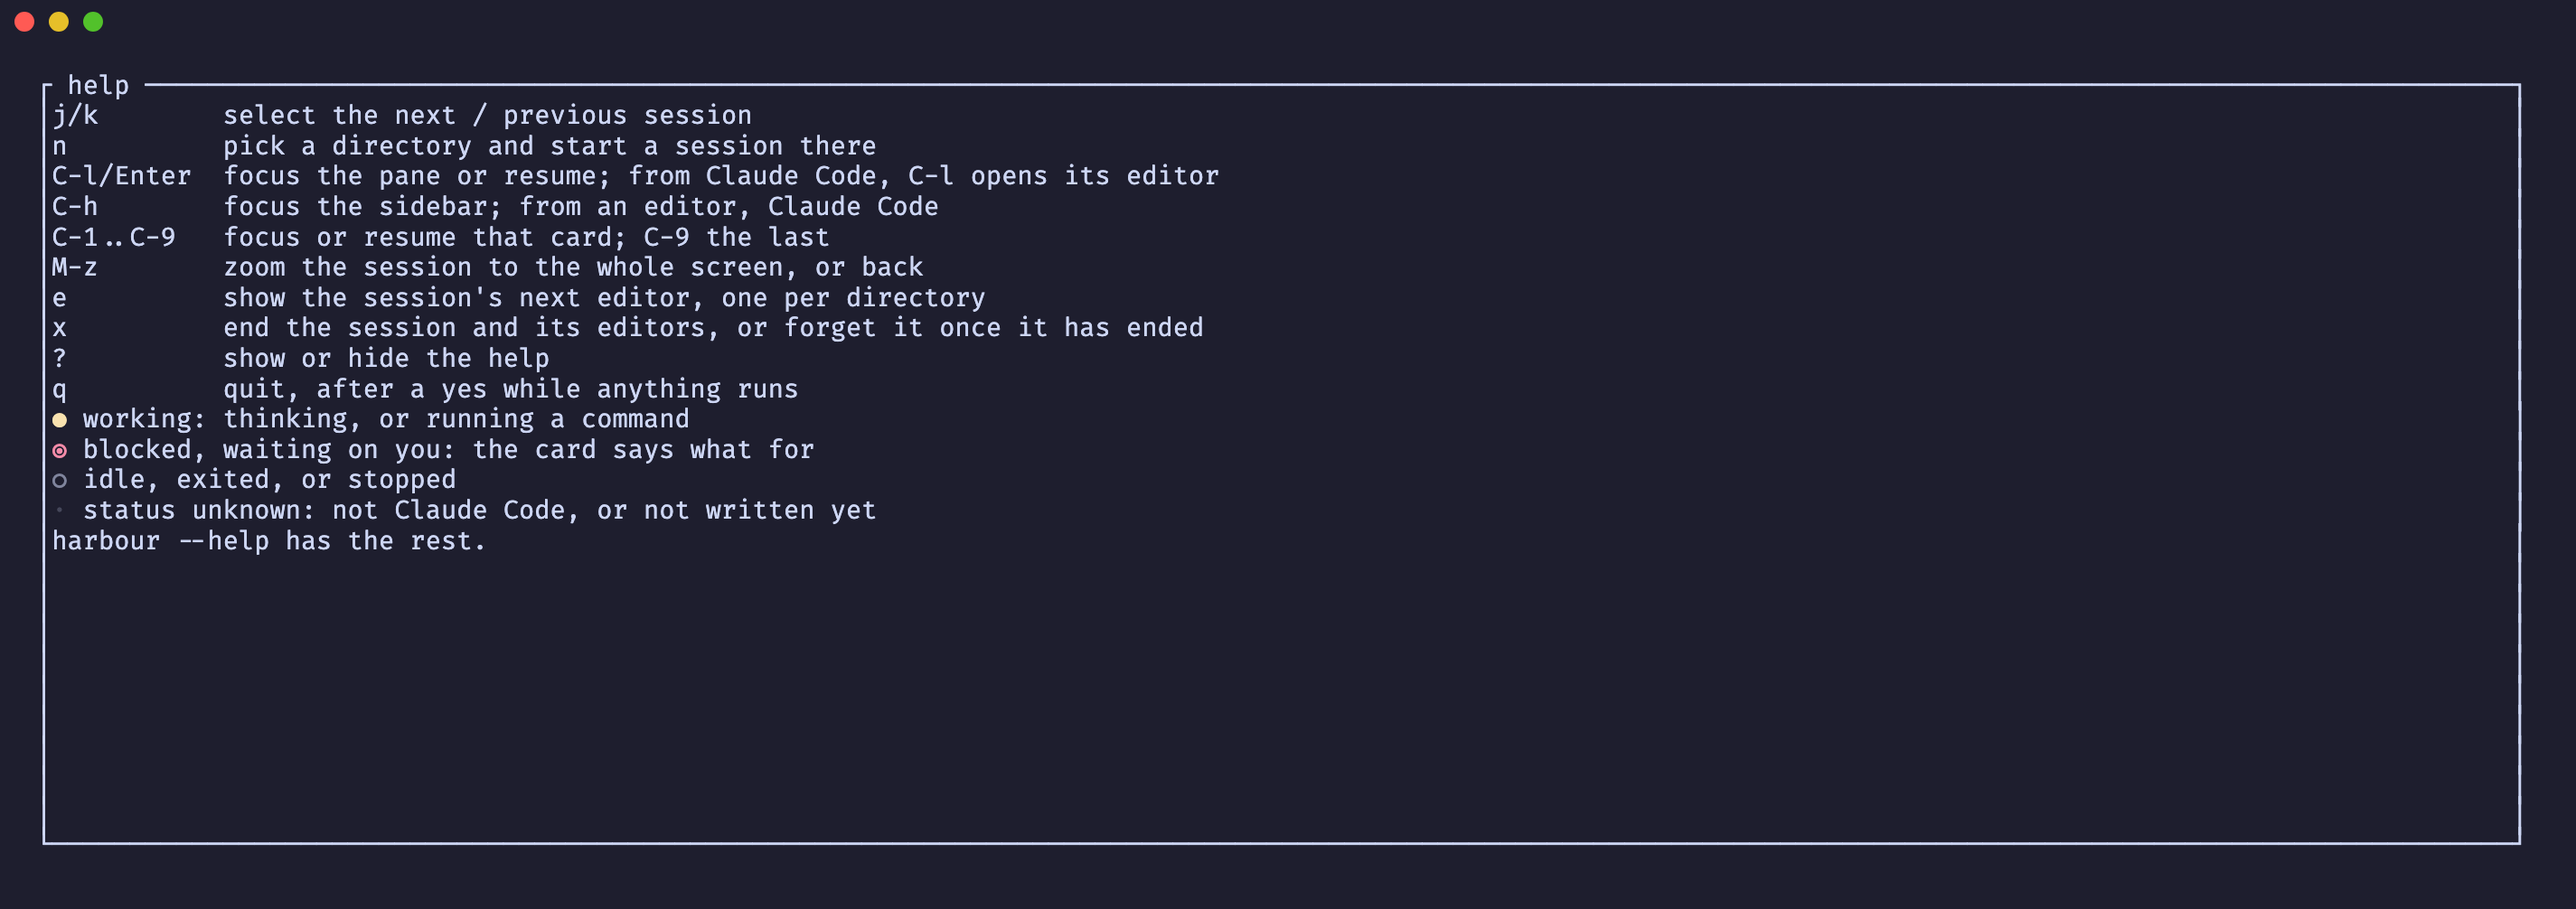
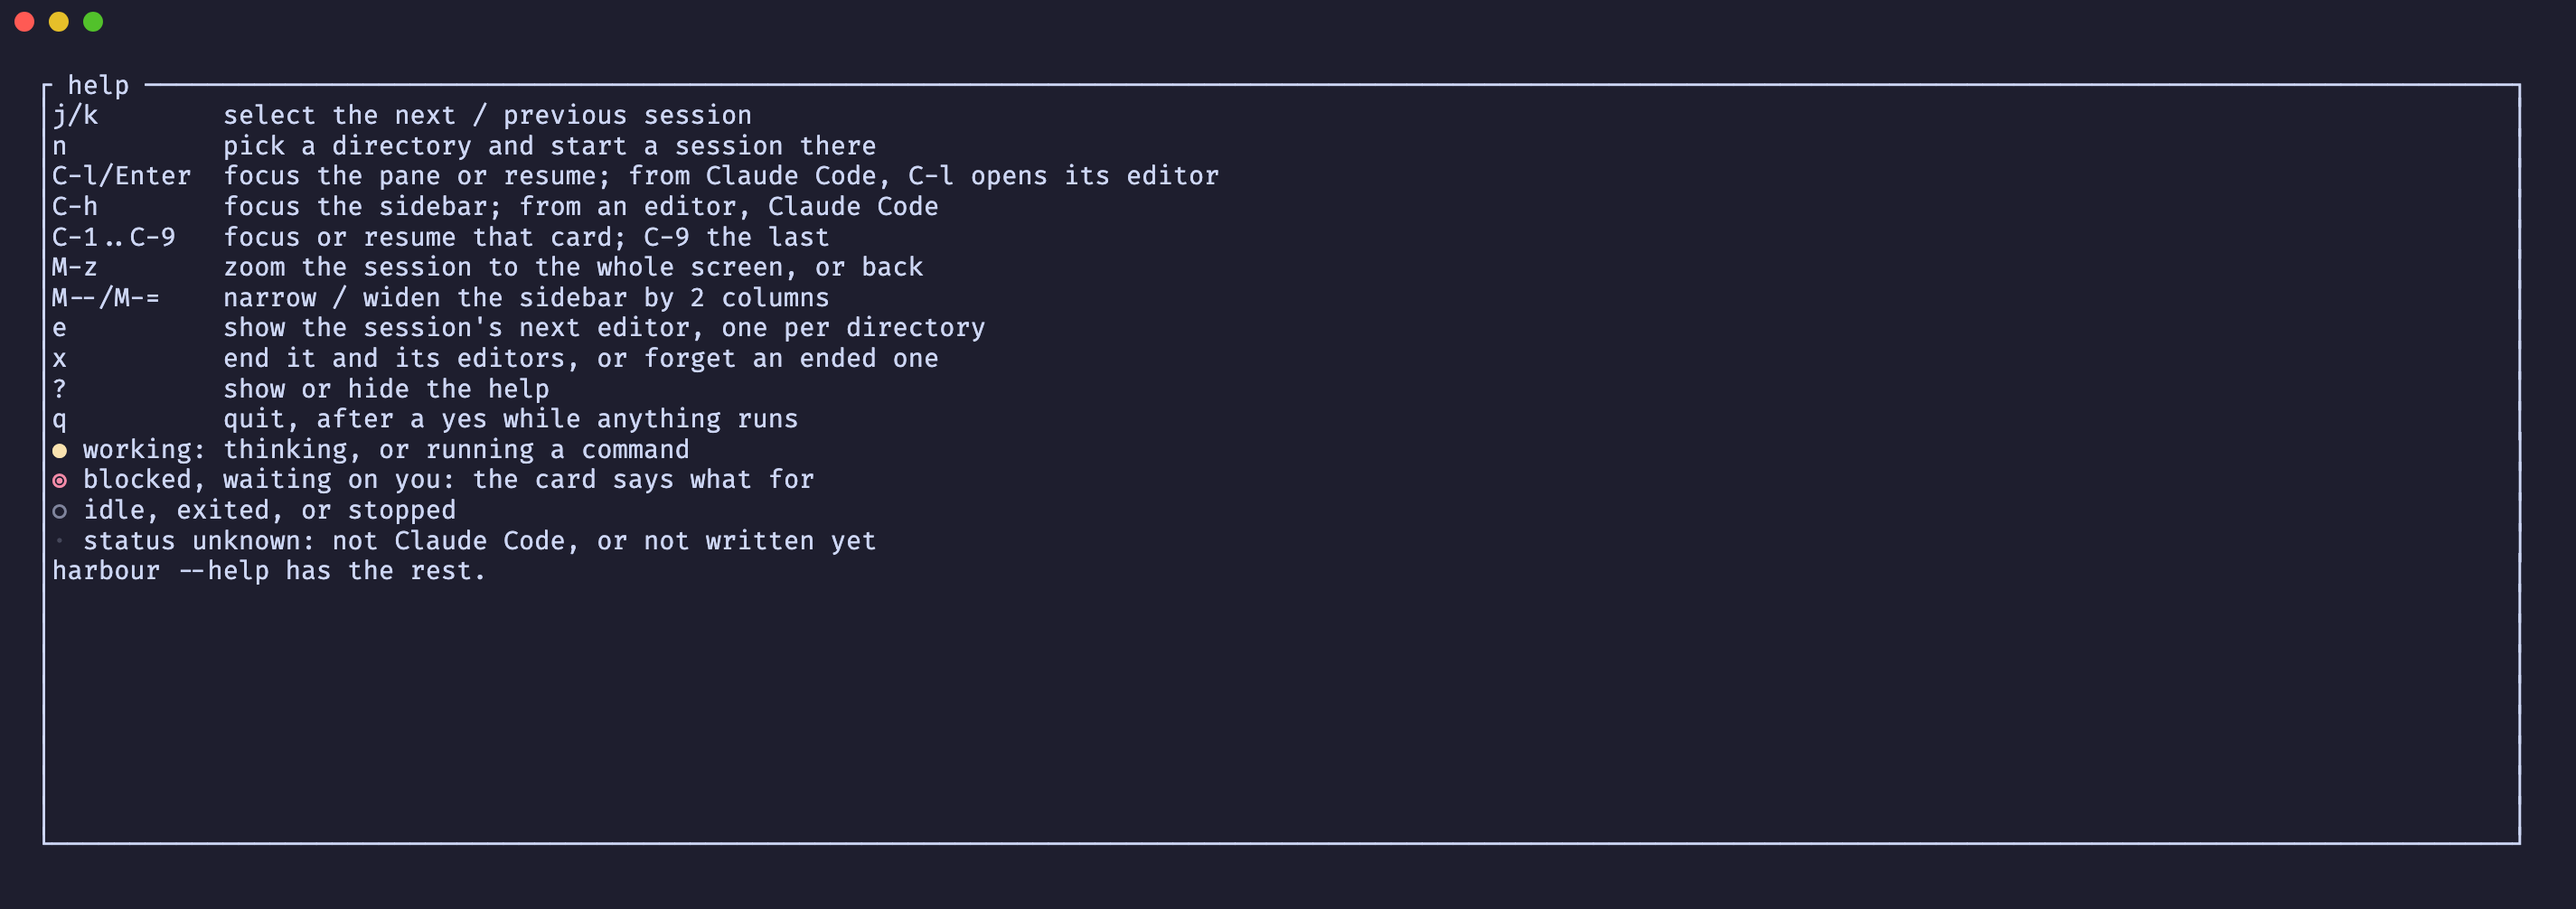
The help, the usage and the README name Alt-minus and Alt-equals

Changed region(s): [[0.0, 0.3082, 0.4684, 0.6471], [0.0, 0.3082, 0.0625, 0.339]]

diff --git a/tests/app/help.rs b/tests/app/help.rs
@@ -14,7 +14,7 @@ fn question_mark_shows_the_keys_and_where_the_notes_went() {
     let shown = screen.draw();
     assert!(shown.contains("j/k"), "{shown}");
     assert!(
-        shown.contains("end the session and its editors, or forget it once it has ended"),
+        shown.contains("end it and its editors, or forget an ended one"),
         "{shown}"
     );
     assert!(shown.contains(POINTER), "{shown}");
@@ -31,7 +31,7 @@ fn question_mark_shows_the_editor_keys() {
         shown.contains("from Claude Code, C-l opens its editor"),
         "{shown}"
     );
-    assert!(shown.contains("the session and its editors"), "{shown}");
+    assert!(shown.contains("end it and its editors"), "{shown}");
     assert!(
         shown.contains("show the session's next editor, one per directory"),
         "{shown}"
@@ -52,6 +52,19 @@ fn question_mark_shows_the_zoom_key() {
 }
 
 #[test]
+fn question_mark_shows_the_width_keys() {
+    let mut screen = Screen::new(reading_agent());
+
+    screen.press('?');
+
+    let shown = screen.draw();
+    assert!(
+        shown.contains("M--/M-=    narrow / widen the sidebar by 2 columns"),
+        "{shown}"
+    );
+}
+
+#[test]
 fn question_mark_says_how_to_resume_and_forget_a_stopped_session() {
     let mut screen = Screen::new(reading_agent());
     screen.resize(80, 24);
@@ -60,7 +73,7 @@ fn question_mark_says_how_to_resume_and_forget_a_stopped_session() {
 
     let shown = screen.draw();
     assert!(shown.contains("focus the pane or resume;"), "{shown}");
-    assert!(shown.contains("or forget it once it has ended"), "{shown}");
+    assert!(shown.contains("or forget an ended one"), "{shown}");
     assert!(shown.contains("○ idle, exited, or stopped"), "{shown}");
 }
 
@@ -120,13 +133,13 @@ fn the_whole_help_shows_on_a_20_row_terminal() {
 }
 
 #[test]
-fn the_help_leaves_three_rows_for_new_keys_on_a_20_row_terminal() {
+fn the_help_leaves_two_rows_for_new_keys_on_a_20_row_terminal() {
     let mut screen = Screen::new(reading_agent());
 
     screen.press('?');
 
     let shown = screen.draw();
-    assert_eq!(spare_rows(&shown), 3, "{shown}");
+    assert_eq!(spare_rows(&shown), 2, "{shown}");
 }
 
 #[test]

diff --git a/tests/cli.rs b/tests/cli.rs
@@ -372,6 +372,10 @@ M-z zooms the selected session to the whole screen, and back. It works only
 where the terminal sends Alt-z as an extended key (under tmux, extended-keys
 on), and never from an editor: C-h first (from Neovim, Esc then C-h). Under
 tmux, Esc then z typed fast in Claude Code arrives as Alt-z and zooms.
+M-- and M-= make the sidebar 2 columns narrower or wider, from 15 columns to
+half the terminal, until harbour quits; like M-z, only as extended keys and
+never from an editor. Under tmux, Esc then - or = typed fast in Claude Code
+arrives as the Alt key and changes the width.
 status prints how many sessions of every running harbour are blocked, working,
 idle or unknown. For tmux, put #(harbour status) in your status-right, for example
   set -g status-right '#(harbour status) %H:%M'

diff --git a/src/main.rs b/src/main.rs
@@ -34,6 +34,10 @@ M-z zooms the selected session to the whole screen, and back. It works only
 where the terminal sends Alt-z as an extended key (under tmux, extended-keys
 on), and never from an editor: C-h first (from Neovim, Esc then C-h). Under
 tmux, Esc then z typed fast in Claude Code arrives as Alt-z and zooms.
+M-- and M-= make the sidebar 2 columns narrower or wider, from 15 columns to
+half the terminal, until harbour quits; like M-z, only as extended keys and
+never from an editor. Under tmux, Esc then - or = typed fast in Claude Code
+arrives as the Alt key and changes the width.
 status prints how many sessions of every running harbour are blocked, working,
 idle or unknown. For tmux, put #(harbour status) in your status-right, for example
   set -g status-right '#(harbour status) %H:%M'

diff --git a/src/help.rs b/src/help.rs
@@ -8,11 +8,9 @@ pub const KEYS: &[(&str, &str)] = &[
     ("C-h", "focus the sidebar; from an editor, Claude Code"),
     ("C-1..C-9", "focus or resume that card; C-9 the last"),
     ("M-z", "zoom the session to the whole screen, or back"),
+    ("M--/M-=", "narrow / widen the sidebar by 2 columns"),
     ("e", "show the session's next editor, one per directory"),
-    (
-        "x",
-        "end the session and its editors, or forget it once it has ended",
-    ),
+    ("x", "end it and its editors, or forget an ended one"),
     ("?", "show or hide the help"),
     ("q", "quit, after a yes while anything runs"),
 ];

diff --git a/AGENTS.md b/AGENTS.md
@@ -57,7 +57,7 @@ src/app/logging.rs            what the app writes to the log: start and quit, a 
 src/app/jump.rs               `jump`: Ctrl-1 to Ctrl-8 select the card at that position and Ctrl-9 the last, from the sidebar or a pane (a session never gets them), then focus its pane or resume it as Enter does; nothing beyond the last card, nothing while a question, the help view or the picker is shown; they arrive only as extended keys, so a terminal without them sends what it sent before
 src/app/zoom.rs               zoom: Alt-z (or Alt-Z, Caps Lock on), only in an extended form and never from an editor (a legacy `ESC z` or an editor's Alt-z goes on to the session), from the sidebar or Claude Code on a running session shows its pane alone and focuses it (from the sidebar its Claude Code, even on a card that showed its editor), and again brings the sidebar back, clearing a failure message as it zooms; each frame drops it once the pane loses focus or the session ends; the zoomed border: the counts at the right, then the session's headline (`src/zoom.rs`) guaranteed its dot, up to 16 columns of title and the time, the names in the rest, what they leave back to the headline
 src/app/remember.rs           what the app does with remembered sessions: recalls them once as stopped cards, at most 100 by position, from one listing of every projects folder (a card whose transcript is gone is left out, its file forgotten once it is 30 days old), says on line 2 and in the pane why one cannot resume (`directory gone`, `open elsewhere` while a live pid's registry file or another harbour's reservation names its id), resumes one with `<command> --resume <id>` in its directory after checking both again and reserving the id for as long as it runs, keeps each session's id, directory, title and position once its transcript exists (again when its file went missing, once more when it exits and at quit), merges a stopped card into the session that resumed its conversation, forgets on `x` (never a file a session open elsewhere owns), clears its `gone` and `open elsewhere` messages on a new selection, the next attempt or once the card can resume, and adds `Conversations come back stopped.` to the quit question
-src/app/split.rs              how the sidebar and the pane share the terminal: two columns, from 60 columns, the sidebar a third or the configured width cut to half, the pane the rest; below that one side at a time, the pane while it has focus, else the sidebar; zoomed, the pane alone
+src/app/split.rs              how the sidebar and the pane share the terminal: two columns, from 60 columns, the sidebar a third or the configured width cut to half, the pane the rest; below that one side at a time, the pane while it has focus, else the sidebar; zoomed, the pane alone; Alt-minus and Alt-equals, only in an extended form and never from an editor, make the sidebar 2 columns narrower or wider, from 15 columns to half, nothing under 60 columns or while zoomed, the width kept in place of the configured one until quit
 src/handoff.rs                `harbour edit <file>` and its listener: the file made absolute (its folder resolved when the file does not exist yet, a dangling symlink followed to where it points, 4096 bytes at most), every harbour asked over a socket in a private (0700) `$XDG_STATE_HOME/harbour/edit/`, else `~/.local/state/harbour/edit/`, which of its sessions holds it, how deep its root lies, whether it is selected and when it was last used, and the first by that order told to open it; the listener binds `<pid>-<n>.sock` (0600), removes it when dropped, binds again within 5 s when it is gone, removes the sockets no process listens on, and, on a thread of its own that sleeps in `poll` until a connection, its check or harbour's exit wakes it, accepts, checks the peer and reads each request on a thread of its own (at most 16 in flight, the rest closed at once), keeping only a request from its own user that arrives within 100 ms and has not expired; it resolves the path again itself, answers `none` or a refusal when it does not resolve, and hands the app the rest over a channel with a deadline of its expiry, 5 s at most
 src/memory.rs                 the remembered sessions on disk: one `<sessionId>.json` per conversation under `$XDG_STATE_HOME/harbour/sessions/<configuration>/`, else `~/.local/state/harbour/sessions/<configuration>/`, one folder per Claude Code configuration (a stable hash of its resolved `projects/` path, symlinks followed), so a harbour never shows, resumes or prunes another configuration's conversations (0700 folder, 0600 files, written through a staged file and a rename, a staged file older than a minute swept); the directory stored as text, or as its bytes when it is not UTF-8; no file names another, so none deletes another; read leniently: a regular file only, never through a symlink, at most 64 KiB, `version` 1, an id of Claude Code's shape (a lowercase 8-4-4-4-12 hex UUID, so `--resume <id>` never reads it as an option) matching its name, an absolute directory, anything else skipped and left on disk, a file from a newer version never overwritten or removed; `reserve`: a private `<id>.<unique>.lock` held with a non-blocking lock by every running session with a remembered id (taken when the id is first known, the new one taken before the old one is released when it changes, tried again at each read while held elsewhere) and kept only while that file is still at its path, retried once when held, dead ones swept
 src/follow.rs                 where harbour works, so tmux's `#{pane_current_path}` follows the selected session: the `root` of the editor for its last seen directory, or where harbour was opened with no session or when that directory is gone or cannot be entered; checked at a frame when the selection or the directory changed, else every half second, and moved to only when it differs by path or by device and inode (a directory replaced in place is entered again); `temporary`, the temporary directory made absolute at start
@@ -125,7 +125,7 @@ tests/           outside-in: `tests/cli.rs` runs the real binary;
                  `tests/session/` (`keyboard.rs` what a program asked for in keys) and `tests/app/` run sessions in process, as `/bin/sh -c` scripts;
                  `tests/edit.rs` runs `harbour edit` against listeners of `tests/handoff.rs`'s kind, which a test answers itself; `tests/app/handoff.rs` hands the app requests and stands in a socket for Neovim; `tests/app/nearest.rs` covers which holder gets the file and what moves its last use; `tests/e2e/edit.rs` runs `harbour edit` against harbour, and `tests/e2e/neovim.rs` holds four smoke tests against a real clean Neovim; `tests/app/real_neovim.rs` runs that Neovim's TUI in a harbour session and checks `mode`, `eval`, `edit`, `changes`, `wants_ctrl_h` and `open` against it; `tests/idle.rs` (Linux only) counts the listener thread's wake-ups while idle;
                  `tests/app/jumping.rs` covers Ctrl-1 to Ctrl-9 in process, `tests/e2e/keys.rs` what tmux sends for them with extended keys on and off;
-                 `tests/app/zoom.rs` covers Alt-z in process, `tests/app/zoom_border.rs` the zoomed border, `tests/zoom.rs` the table of how its headline fits a room;
+                 `tests/app/zoom.rs` covers Alt-z in process, `tests/app/width_keys.rs` Alt-minus and Alt-equals, `tests/app/zoom_border.rs` the zoomed border, `tests/zoom.rs` the table of how its headline fits a room;
                  `tests/app/moving.rs` hands the app a recording move, never the real one; `tests/e2e/moving.rs` reads `#{pane_current_path}` of a harbour started with `Server::exec`;
                  `tests/tabs.rs` is the table of how the pane border's names fit a width, with and without icons;
                  `tests/text.rs` covers measuring, cutting, wrapping and cleaning text, `tests/card.rs` a card's lines, `tests/repo.rs` reading a repository and branch from scratch `.git` layouts, `tests/transcript.rs` reading a transcript, `tests/memory/` every file state of the remembered sessions (`reserving.rs` the locks and the sweep, `places.rs` the directory bytes and the configurations);

diff --git a/README.md b/README.md
@@ -46,8 +46,9 @@ harbour config      # the settings file's path and where each setting comes from
 | `C-h` | focus the sidebar; from an editor, Claude Code |
 | `C-1..C-9` | focus or resume that card; C-9 the last |
 | `M-z` | zoom the session to the whole screen, or back |
+| `M--/M-=` | narrow / widen the sidebar by 2 columns |
 | `e` | show the session's next editor, one per directory |
-| `x` | end the session and its editors, or forget it once it has ended |
+| `x` | end it and its editors, or forget an ended one |
 | `?` | show or hide the help |
 | `q` | quit, after a yes while anything runs |
 
